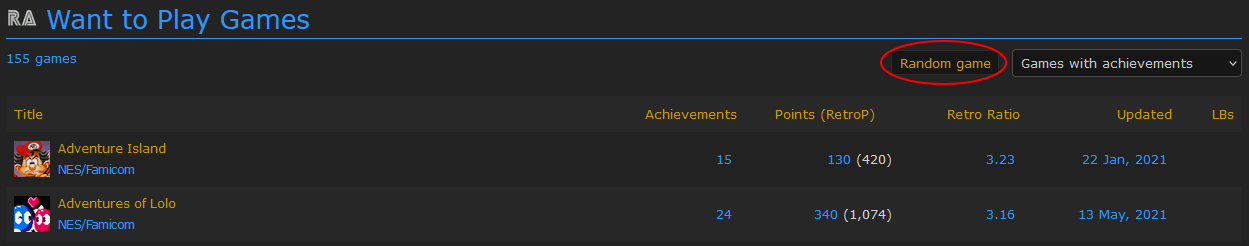
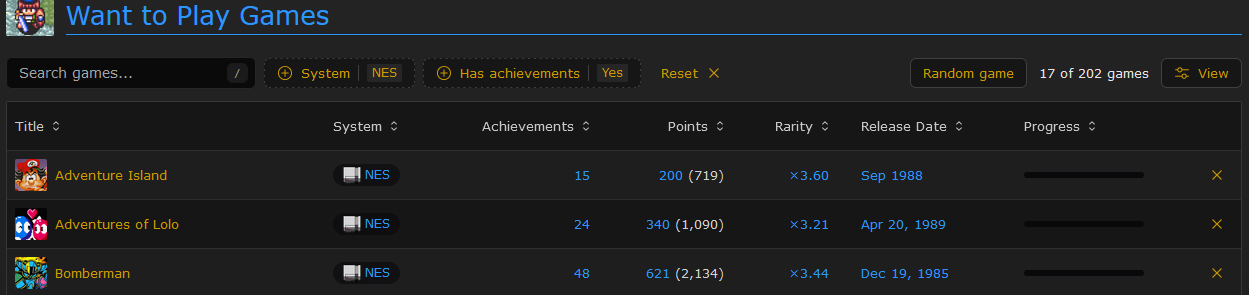
GameListRandom: fix for RAWeb 6.16 "Want to Play" page, drops support for "All Games" page, removes the Shuffle behavior for single page lists

diff --git a/RA_GameListRandom.user.js b/RA_GameListRandom.user.js
@@ -1,109 +1,168 @@
 // ==UserScript==
 // @name         RA_GameListRandom
 // @namespace    RA
-// @version      0.2.1
-// @description  On Game list pages (Want to play, All games), adds a button to shuffle the list if it's single page or one to select a random game if it's paginated
+// @version      0.3
+// @description  On Want to play page, adds a button to select a random game with the current filter selection
 // @author       Mindhral
-// @match        https://retroachievements.org/gameList.php*
+// @match        https://retroachievements.org/game-list/play*
 // @run-at       document-start
 // @icon         https://static.retroachievements.org/assets/images/favicon.webp
 // @grant        none
 // ==/UserScript==
 
-function shuffle(array) {
-    let index = array.length;
-    while (index > 1) {
-        let newIdx = Math.floor(Math.random() * index);
-        index--;
-        [array[index], array[newIdx]] = [array[newIdx], array[index]];
-    }
-    return array;
+let paginationBlock;
+let filterIndex;
+let randomButton;
+let allGamesButton;
+
+function getElementsByXpath(root, xpath) {
+    const results = document.evaluate(xpath, root, null, XPathResult.ORDERED_NODE_ITERATOR_TYPE, null);
+    const nodes = [];
+    let node;
+    while (node = results.iterateNext()) nodes.push(node);
+    return nodes;
+}
+
+function setVisible(element, visible) {
+    const method = visible ? 'remove' : 'add';
+    element?.classList[method]('hidden');
+}
+
+function isVisible(element) {
+    return !element.classList.contains('hidden');
 }
 
 function getGamesRows() {
-    return [...document.querySelectorAll('table.table-highlight tr:not(.do-not-highlight)')];
+    return [...document.querySelectorAll('article table tbody tr')];
 }
 
 function addButton(label) {
-    const filtersDiv = document.querySelector('article div[align="right"]');
-    // dev pages get exluded here
+    let filtersDiv;
+    for (const gameCountPara of getElementsByXpath(document, '//p[contains(.,"games")]')) {
+        const match = gameCountPara.innerText.match(/^(\d+) of \d+ games$/);
+        if (match) filtersDiv = gameCountPara.parentElement;
+        break;
+    }
     if (!filtersDiv) return null;
+    const refButton = filtersDiv.querySelector('button:last-of-type');
 
     const button = document.createElement('button');
-    button.className = 'btn';
-    button.style['margin-right'] = '1em';
+    button.className = refButton?.className || 'btn';
     button.innerHTML = label;
     filtersDiv.prepend(button);
     return button;
 }
 
+function getGamesCount() {
+    for (const gameCountPara of getElementsByXpath(document, '//p[contains(.,"games")]')) {
+        const match = gameCountPara.innerText.match(/^(\d+) of \d+ games$/);
+        if (match) return match[1];
+    }
+}
+
+function getPagination() {
+    const paginationMatch = paginationBlock.parentElement.querySelector('p').innerText.match(/Page (\d+) of (\d+)$/);
+    const idxToInt = idx => parseInt(paginationMatch?.[idx]) || 1;
+    return {current: idxToInt(1), max: idxToInt(2)};
+}
+
+let itemsPerPage;
+function getItemsPerPage() {
+    if (itemsPerPage) return itemsPerPage;
+
+    const pagination = getPagination();
+    const rowsCount = getGamesRows().length;
+    if (pagination.max == 1) {
+        // only 1 page: we can't know the max value, but the rows count will work for the current situation
+        return rowsCount;
+    }
+    if (pagination.current < pagination.max) {
+        // not the last page: the rows count is the max value
+        itemsPerPage = rowsCount;
+    } else {
+        // last page: we divide the total rows for the prevous pages by their number
+        itemsPerPage = (getGamesCount() - rowsCount) / (pagination.max - 1);
+    }
+    return itemsPerPage;
+}
+
 function addRandomGameButton() {
-    const gamesCount = parseInt(document.querySelector('article > h2 + p')?.innerText.match(/\d+/)[0]) || 0
+    const gamesCount = getGamesCount();
     if (!gamesCount) return; // offset > gamesCount ?
-    const button = addButton('Random game');
-    if (!button) return;
-    button.addEventListener('click', () => {
-        const rndIdx = Math.floor(Math.random() * gamesCount);
+    randomButton = addButton('Random game');
+    if (!randomButton) return;
+    setVisible(randomButton, gamesCount > 0);
+    randomButton.addEventListener('click', () => {
+        const rndIdx = Math.floor(Math.random() * getGamesCount());
+        const targetPage = 1 + Math.floor(rndIdx / getItemsPerPage());
         const urlParams = new URLSearchParams(window.location.search);
-        const offset = parseInt(urlParams.get('o')) || 0;
-        if (rndIdx >= offset && rndIdx < offset + 50) {
-            const displayIdx = rndIdx - offset;
-            window.location.hash = 'g' + displayIdx;
-            filterGame(displayIdx);
+        const pagination = getPagination();
+        const filterIdx = rndIdx % getItemsPerPage();
+        if (targetPage == pagination.current) {
+            filterGame(filterIdx);
+            return;
+        }
+        const buttonIdx = (() => { switch (targetPage) {
+            case pagination.current - 1: return 2;
+            case pagination.current + 1 : return 3;
+            case 1: return 1;
+            case pagination.max: return 4;
+            default: return -1;
+        }})();
+        if (buttonIdx >= 0) {
+            filterIndex = filterIdx;
+            if (buttonIdx > 0) paginationBlock.querySelector(`button:nth-child(${buttonIdx})`).click();
         } else {
-            const pageGameOffset = rndIdx % 50;
             const newUrl = new URL(window.location);
-            urlParams.set('o', rndIdx - pageGameOffset);
-            newUrl.hash = 'g' + pageGameOffset;
+            urlParams.set('page[number]', targetPage);
             newUrl.search = urlParams;
+            newUrl.hash = 'g' + filterIdx;
             window.location = newUrl;
         }
     });
 }
 
-function filterGame(idx) {
-    getGamesRows().forEach((element, i) => {
-        const f = (i == idx) ? 'remove' : 'add';
-        element.classList[f]('hidden');
-    });
-
-    if (document.getElementById('allGamesButton')) return;
-    const allGamesButton = addButton('All games');
+function addAllGamesButton() {
+    allGamesButton = addButton('All games');
     allGamesButton.id = 'allGamesButton';
     allGamesButton.title = 'Show all games from the current page';
     allGamesButton.addEventListener('click', () => {
-        getGamesRows().forEach((element) => element.classList.remove('hidden'));
-        allGamesButton.remove();
+        getGamesRows().forEach((element) => setVisible(element, true));
+        setVisible(allGamesButton, false);
+        setVisible(paginationBlock, true);
+    });
+}
+
+function updateState() {
+    setVisible(randomButton, getGamesCount() > 0);
+    if (filterIndex) {
+        filterGame(filterIndex);
+        filterIndex = null;
+    } else if (isVisible(allGamesButton)) {
+        allGamesButton.click();
+    }
+}
+
+function filterGame(idx) {
+    getGamesRows().forEach((element, i) => setVisible(element, i == idx));
+
+    setVisible(paginationBlock, false);
+    setVisible(allGamesButton, true);
+}
+
+window.addEventListener("load", () => {
+    paginationBlock = document.querySelector('nav[aria-label="pagination"]');
+    addRandomGameButton();
+    addAllGamesButton();
+    setVisible(allGamesButton, false);
+
+    const newNodesObserver = new MutationObserver(updateState);
+    const newNodesConfig = { childList: true, subtree: true, characterData: true };
+    newNodesObserver.observe(document.querySelector('article tbody'), newNodesConfig);
+
+    const urlHash = window.location.hash;
+    if (urlHash.match(/^#g\d+$/)) {
+        filterGame(parseInt(urlHash.slice(2)));
         window.location.hash = '';
-        const offset = parseInt(new URLSearchParams(window.location.search).get('o')) || 0;
-    });
-}
-
-function addShuffleButton() {
-    const allRows = getGamesRows();
-    if (allRows.length == 0) return; // unsupported consoles, ...
-
-    const button = addButton('Shuffle');
-    if (!button) return; // dev pages
-    button.addEventListener('click', () => {
-        shuffle(allRows);
-        const lastIdx = allRows.length - 1;
-        const last = allRows[lastIdx];
-        for (let i = 0; i < lastIdx; i++) last.before(allRows[i]);
-    });
-}
-
-document.addEventListener("DOMContentLoaded", () => {
-    // special case of hubs list
-    const consoleId = new URLSearchParams(window.location.search).get('c');
-    // Hubs and Events
-    if(consoleId == '100' || consoleId == '101') return;
-    // presence of pagination
-    if (document.querySelector('article > div.text-right')) {
-        addRandomGameButton();
-        const urlHash = window.location.hash;
-        if (urlHash.match(/^#g\d+$/)) filterGame(parseInt(urlHash.slice(2)));
-    } else {
-        addShuffleButton();
     }
 });

diff --git a/README.md b/README.md
@@ -238,21 +238,15 @@ This script should be compatible with *RA_colorMarkGames*.
 
 ## RA_GameListRandom
 
-On game list pages (*Want to play*, *All games*), adds a button to shuffle the list if it's single page or one to select a random game if it's paginated.
+On game list pages (only *Want to play* at the moment), adds a button to select a random game.
 
-Single page shuffle (*Want to play* with 50 games or less):
-
-![console shuffle](/assets/GameListRandom_toplay_shuffle.png)
-
-When there is pagination (*All games*, *Want to play* with more than 50 games), the *Random game* button chooses an entry, goes to its page if necessary, and isolates it:
+The *Random game* button chooses an entry, goes to its page if necessary, and isolates it:
 
 ![console random](/assets/GameListRandom_toplay_random.png)
 
 Once a game is selected, one can either redraw using the same button or display all the games on the current page again:
 
 ![console selected](/assets/GameListRandom_toplay_selected.png)
-
-This script and [RA_GameListTagFilter](#ra_gamelisttagfilter) can coexist, but using both of them at the same time will result in the second one being used "winning" and the first one getting ignored.
 
 ## RA_EnhancedHubSort
 
